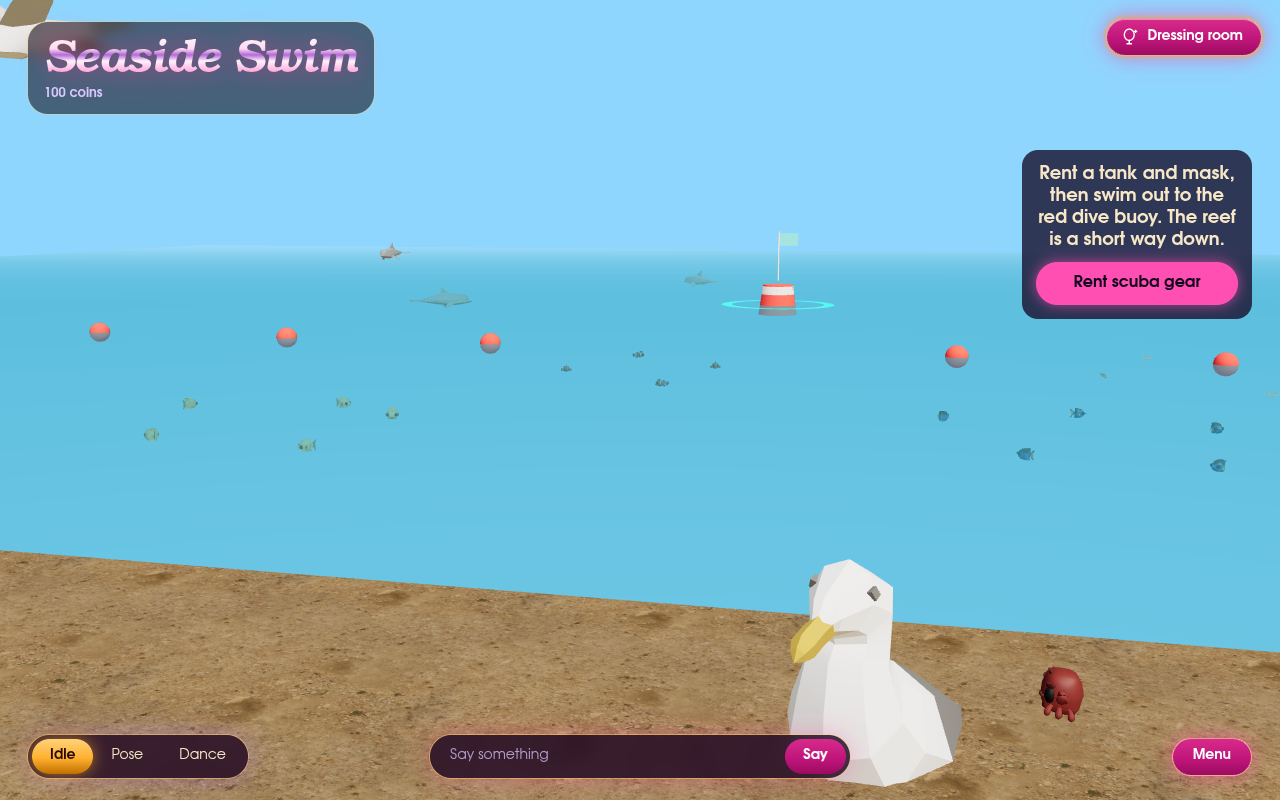
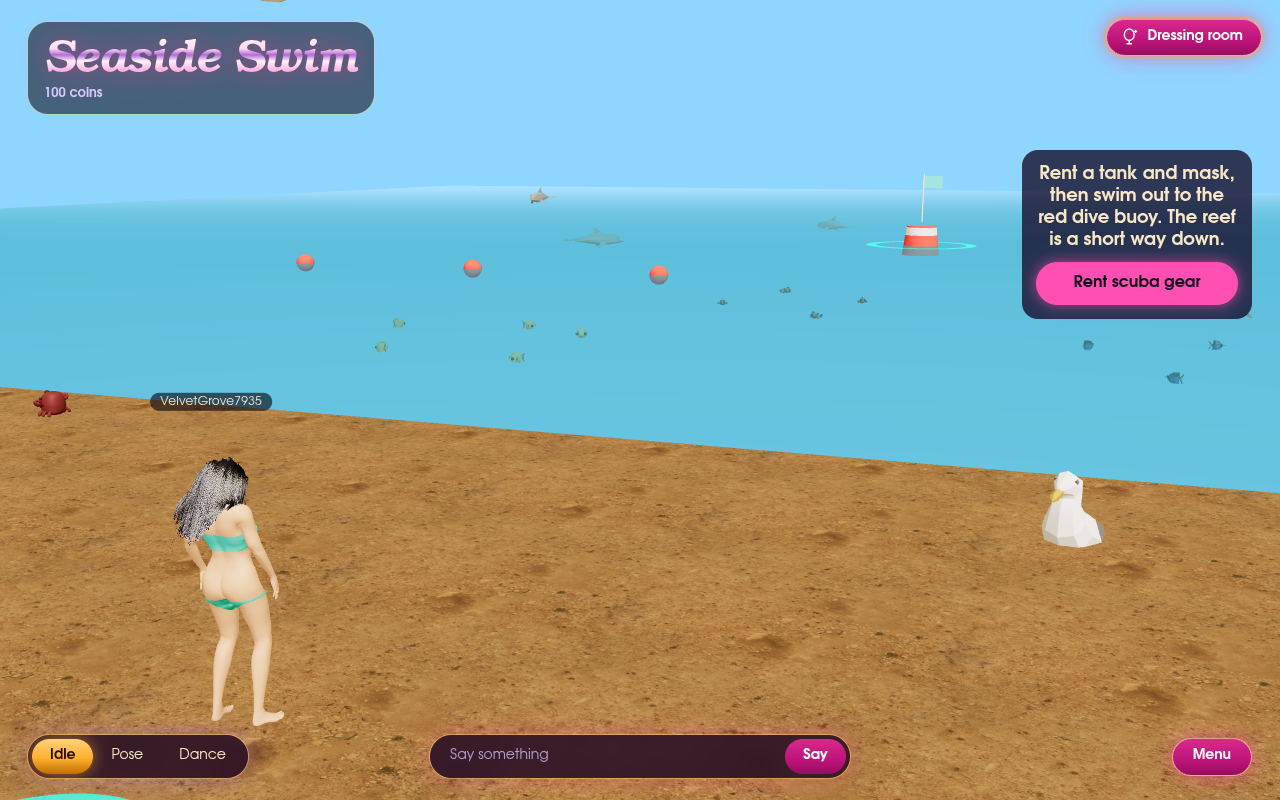
docs(ocean): screenshots of the swim and the reef, a camera that frames the swimmer, sea plane kept off the sand

diff --git a/scripts/screenshots.ts b/scripts/screenshots.ts
@@ -127,7 +127,38 @@ const SHOTS: {
   { name: "catwalk", query: "room=catwalk" },
   { name: "mermaid-cove", query: "room=mermaid-cove" },
   { name: "open-water", query: "room=open-water" },
+  { name: "open-water-full", query: "room=open-water&view=full" },
   { name: "reef-dive", query: "room=reef-dive" },
+  {
+    // swimming out past the lane buoys, strokes and all, fish below
+    name: "open-water-swim",
+    query: "room=open-water&at=2,-9&yaw=3.14&view=full",
+    live: true,
+    act: async (page) => {
+      await page.waitForFunction(
+        () => document.querySelector("canvas")?.dataset.frames === "10",
+        null,
+        { timeout: 300_000 },
+      );
+      await page.keyboard.down("w");
+      await page.waitForTimeout(6_000);
+    },
+  },
+  {
+    // a diver on the reef: tank, mask, bubbles, the gauge, the log
+    name: "reef-dive-swim",
+    query: "room=reef-dive&at=0,-4&yaw=3.14&view=full",
+    live: true,
+    act: async (page) => {
+      await page.waitForFunction(
+        () => document.querySelector("canvas")?.dataset.frames === "10",
+        null,
+        { timeout: 300_000 },
+      );
+      await page.keyboard.down("w");
+      await page.waitForTimeout(6_000);
+    },
+  },
   { name: "skate-diner", query: "room=skate-diner" },
   { name: "museum", query: "room=museum" },
   { name: "salon", query: "room=salon" },

diff --git a/src/client/rooms/OpenWater.tsx b/src/client/rooms/OpenWater.tsx
@@ -179,7 +179,8 @@ function SeaSurface({ onPick }: { onPick: PickHandler }) {
   return (
     <mesh
       rotation-x={-Math.PI / 2}
-      position={[0, 0, (SHORE_Z + SEA.far) / 2]}
+      // from the waterline out past the far end, so the sand stays dry
+      position={[0, 0, SHORE_Z - (SEA_LENGTH + 40) / 2]}
       onClick={click}
       name="floor"
       material={material}
@@ -204,7 +205,7 @@ export function OpenWater({ onPick }: { onPick: PickHandler }) {
     <>
       <color attach="background" args={["#8fd6ff"]} />
       <fog attach="fog" args={["#bfe8ff", 40, 130]} />
-      <hemisphereLight args={["#e4f4ff", "#f2d9a8", 1.5]} />
+      <hemisphereLight args={["#fff1d8", "#f2d9a8", 1.6]} />
       <directionalLight
         position={[18, 30, 12]}
         intensity={2.4}
@@ -214,7 +215,7 @@ export function OpenWater({ onPick }: { onPick: PickHandler }) {
         width={SAND.x1 - SAND.x0}
         depth={SAND.z1 - SAND.z0}
         center={[0, (SAND.z0 + SAND.z1) / 2]}
-        color="#ffffff"
+        color="#ffd9a0"
         texture={{ id: "coast_sand_01", scale: 0.4 }}
         low={{ metalness: 0, roughness: 0.95 }}
         mirror={0}

diff --git a/src/client/world/CameraRig.tsx b/src/client/world/CameraRig.tsx
@@ -237,8 +237,8 @@ const ROOM_SHOTS: Record<RoomId, { eye: THREE.Vector3; look: THREE.Vector3 }> =
     },
     // from up the sand, over the shack and the shallows to the dive buoy
     "open-water": {
-      eye: new THREE.Vector3(-9, 3.6, 13.5),
-      look: new THREE.Vector3(4, 0.3, -5),
+      eye: new THREE.Vector3(4.5, 3.4, 16),
+      look: new THREE.Vector3(0, 0.5, 3),
     },
     // from behind the diver's start, down the reef toward the wreck
     "reef-dive": {

diff --git a/ARCHITECTURE.md b/ARCHITECTURE.md
@@ -158,6 +158,16 @@ The 3D doll is built in Blender from MakeHuman's CC0 assets
 it into `public/models/doll/anims.glb` and lists them in
 `src/game/dance/mocap.ts`. Sources and licenses: `docs/assets.md`.
 
+The sea: `art/ocean/fetch_ocean.py` downloads the reef and sea-life models
+(Poly Pizza), `art/ocean/build_ocean.py` joins and fits the reef props and
+gulls, `art/animals/build_animals.py` bakes the grouper, crab and turtle, and
+`scripts/import-ocean.sh` compresses them into `public/models/ocean/` and
+`public/models/animals/`. Seaside Swim (`openWater.ts`) and the reef
+(`dive.ts`: air, species log, seeded layout, creature paths) are pure; the
+player's swim state is `src/client/world/water.ts` plus the `swim-front` and
+`swim-tread` clips (`afloat` in `HumanDoll`), and the rented gear is
+`ScubaGear.tsx` on her spine and head bones.
+
 ## Service worker
 
 `public/sw.js` registers in production builds only
